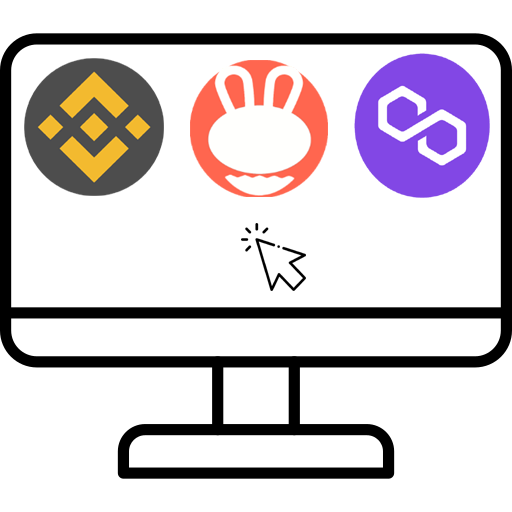
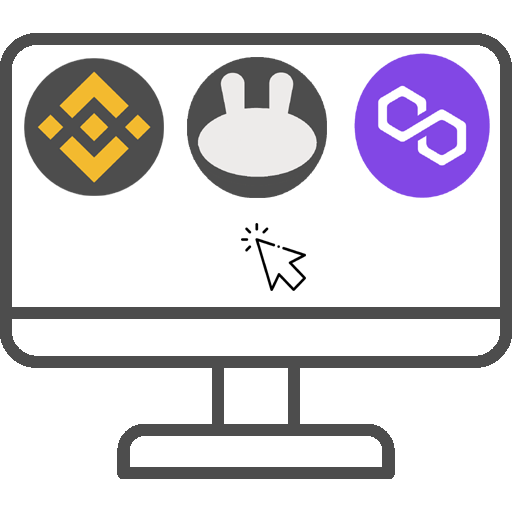
v7

Changed region(s): [[0.0, 0.0625, 1.0, 0.9375]]

diff --git a/css/style.css b/css/style.css
@@ -1,6 +1,6 @@
 body {
   font-family: 'Poppins', sans-serif;
-  color: #000000;
+  color: #505050;
   background-color: #ffffff;
 }
 
@@ -43,7 +43,7 @@ body {
 }
 
 .custom_dark-btn {
-  background-color: #000000;
+  background-color: #505050;
 }
 
 .custom_dark-btn:hover {
@@ -53,12 +53,12 @@ body {
 }
 
 .custom_orange-btn {
-  background-color: #fc5d35;
+  background-color: #505050;
 }
 
 .custom_orange-btn:hover {
-  border: 1px solid #fc5d35;
-  color: #fc5d35;
+  border: 1px solid #000000;
+  /* color: #fc5d35; */
   background-color: transparent;
 }
 
@@ -151,7 +151,7 @@ a:focus {
 .navbar-brand span {
   font-size: 20px;
   font-weight: 700;
-  color: #2e2e2d;
+  color: #505050;
   margin-top: 5px;
 }
 
@@ -309,7 +309,7 @@ a:focus {
 }
 
 .service_section .card:hover::after {
-  background-color: #fc5d35;
+  background-color: #505050;
 }
 
 /* end service section */
